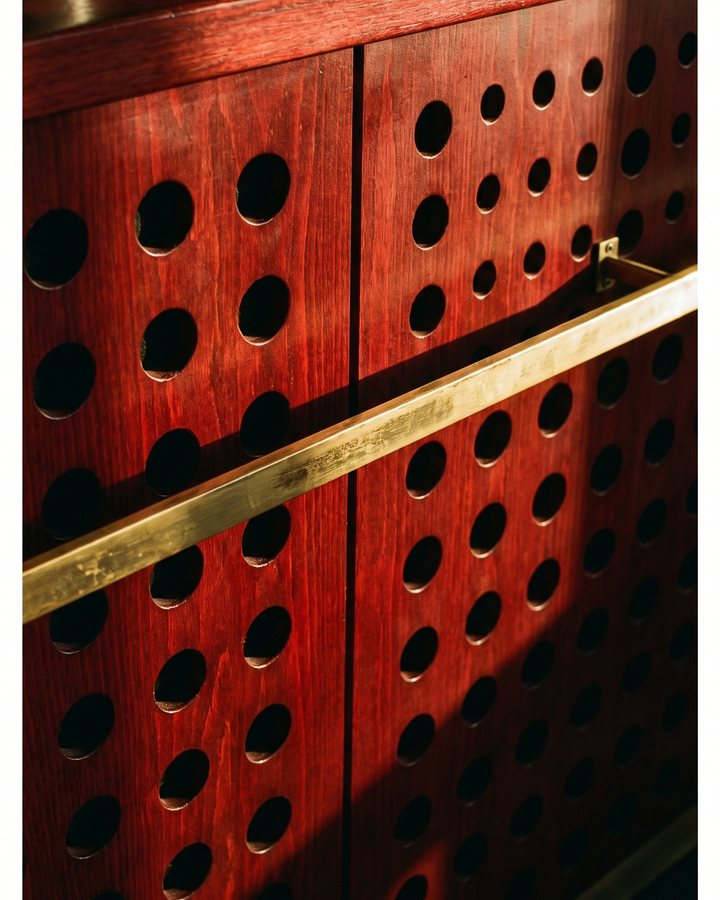
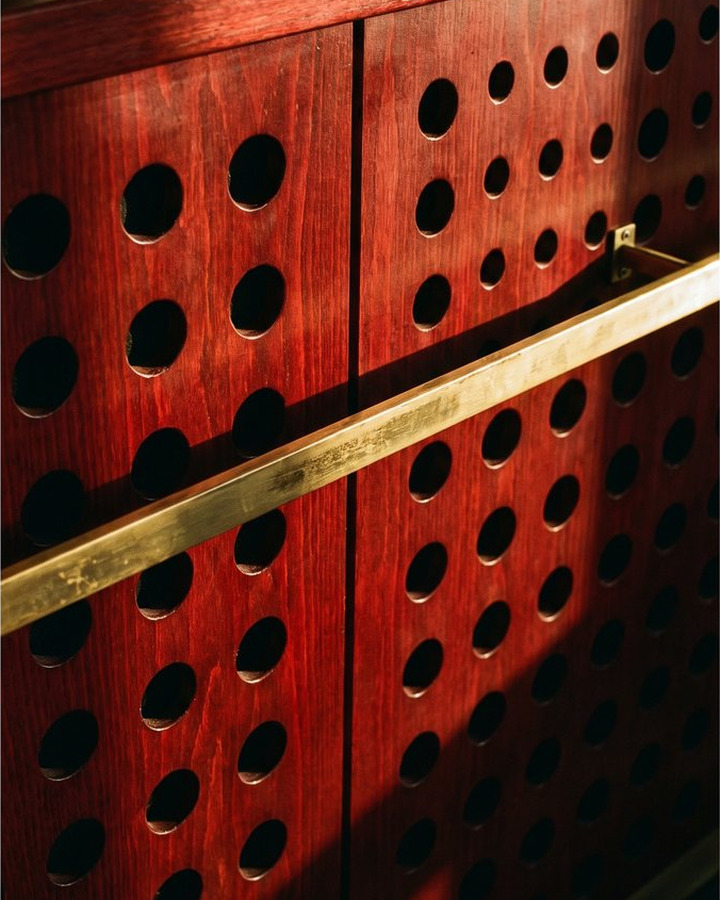
Cinq lieux, et le bord blanc de la 52
LE BORD BLANC
Tu l'avais vu : la 52, le panneau rouge perfore, portait vingt-deux
colonnes de blanc a gauche et a droite. Verifie avant de couper —
254 a 255 de moyenne, ecart-type zero sur exactement 22 colonnes.
C'etait bien un bord. Rogne, puis retaille en 4:5 depuis le centre
pour que la vignette ne se deforme pas dans la grille.

Mon detecteur a d'abord signale deux autres photos, la 34 et la 44.
Faux positifs, et j'avais deja rogne avant de regarder : c'etait du
ciel pale et un mur clair, pas du blanc. Remises comme elles
etaient. Le test compare maintenant la moyenne ET l'ecart-type —
un bord blanc est uniforme, un ciel ne l'est jamais. Les soixante-dix
photos repassent au controle, aucun bord.

CINQ LIEUX
Une devanture, un comptoir de cafe, une etagere de bar a vins, un
mur de fleuriste, une salle de restaurant avant le service. Numeros
50 a 54 dans la banque.

Ils repondent a deux choses en meme temps : tu voulais qu'on sente
que les tremas sont pour des lieux, pour des commercants, et le
style creatif a besoin de photos ou poser le signe. Chaque cadrage
reserve donc au moins un tiers de surface plane et vide — sur une
image encombree, la decoupe tombe dans le desordre.

Le premier tir n'a rien coute : l'API refusait les cinq requetes.
Le modele pro s'appelle nano-banana-pro sans prefixe, alors que le
standard s'appelle google/nano-banana. L'inverse de ce que je
croyais. Quatre-vingt-dix credits pour les cinq, plus vingt-deux
[…]

diff --git a/selection.html b/selection.html
@@ -195,6 +195,15 @@ const BANK = [
   {f:"52-red-panel",          t:"Red panel",             k:"Pro 2K",    s:"",      d:"Bois rouge perfore, barre de laiton."},
   {f:"76-tomates-plateau",    t:"Tomatoes, tray",        k:"Pro 2K",    s:"",      d:"Sortie du four, plaque inox sur beton."},
   {f:"73-ombre-rideau",       t:"The shadow",            k:"Composite", s:"",      d:"L'enseigne qui n'existe que par son ombre. Vrai logotype projete."},
+  /* Cinq lieux tires pour le style creatif : chacun garde une large
+     surface calme, parce que la decoupe, le picto en coin et le
+     logotype qui traverse ont besoin d'un endroit ou se poser.
+     Sur une image encombree, le geste tombe dans le desordre. */
+  {f:"78-devanture",          t:"The shopfront",         k:"Pro 2K",    s:"",      d:"Olive green, straight on, almost an elevation drawing. Plaster on both sides for the mark."},
+  {f:"77-comptoir-cafe",      t:"The coffee counter",    k:"Pro 2K",    s:"",      d:"Blond oak, one machine at the far edge. The ochre wall is two thirds of the frame."},
+  {f:"81-etagere-vins",       t:"The wine shelf",        k:"Pro 2K",    s:"",      d:"One row of identical bottles on petrol blue. Repetitive, graphic."},
+  {f:"79-fleuriste-mur",      t:"The florist's wall",    k:"Pro 2K",    s:"",      d:"Dusty pink plaster, zinc buckets, one burgundy accent."},
+  {f:"80-salle-restaurant",   t:"Before service",        k:"Pro 2K",    s:"",      d:"Two laid tables under a bare terracotta wall. The room is empty on purpose."},
 ];
 
 const LABEL = {in:"In the feed", out:"Set aside", "":"Free"};
